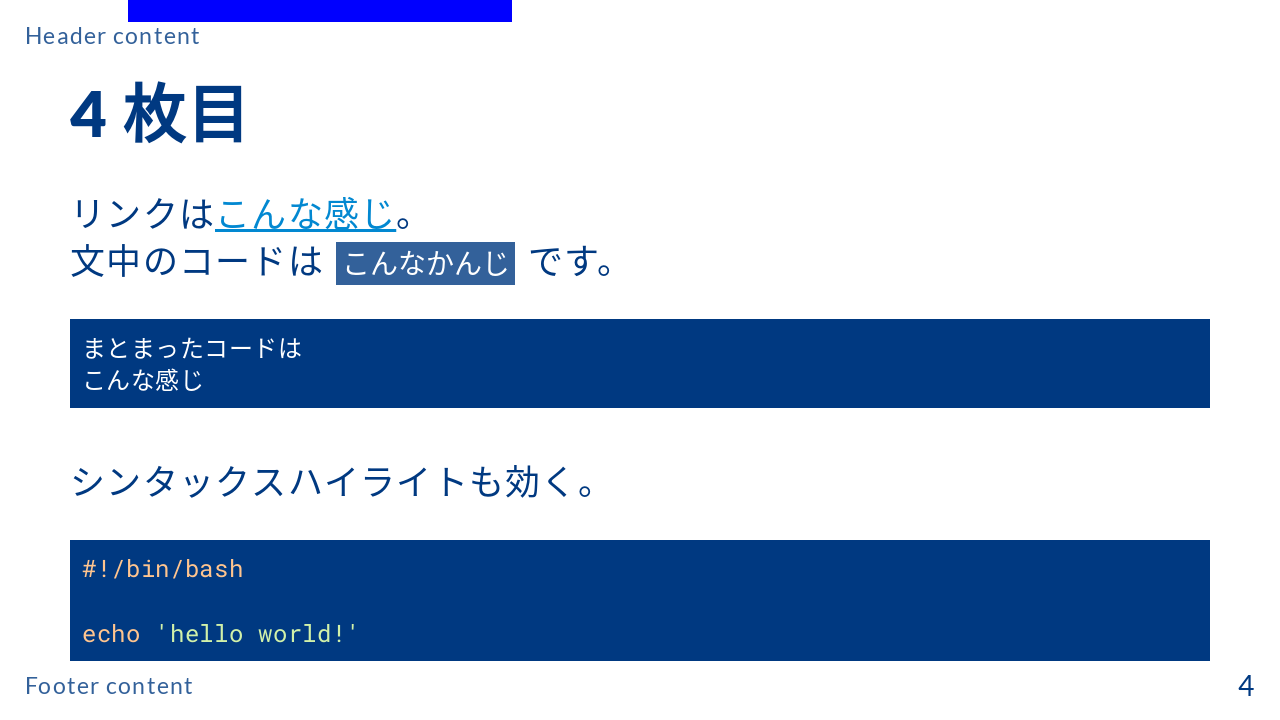
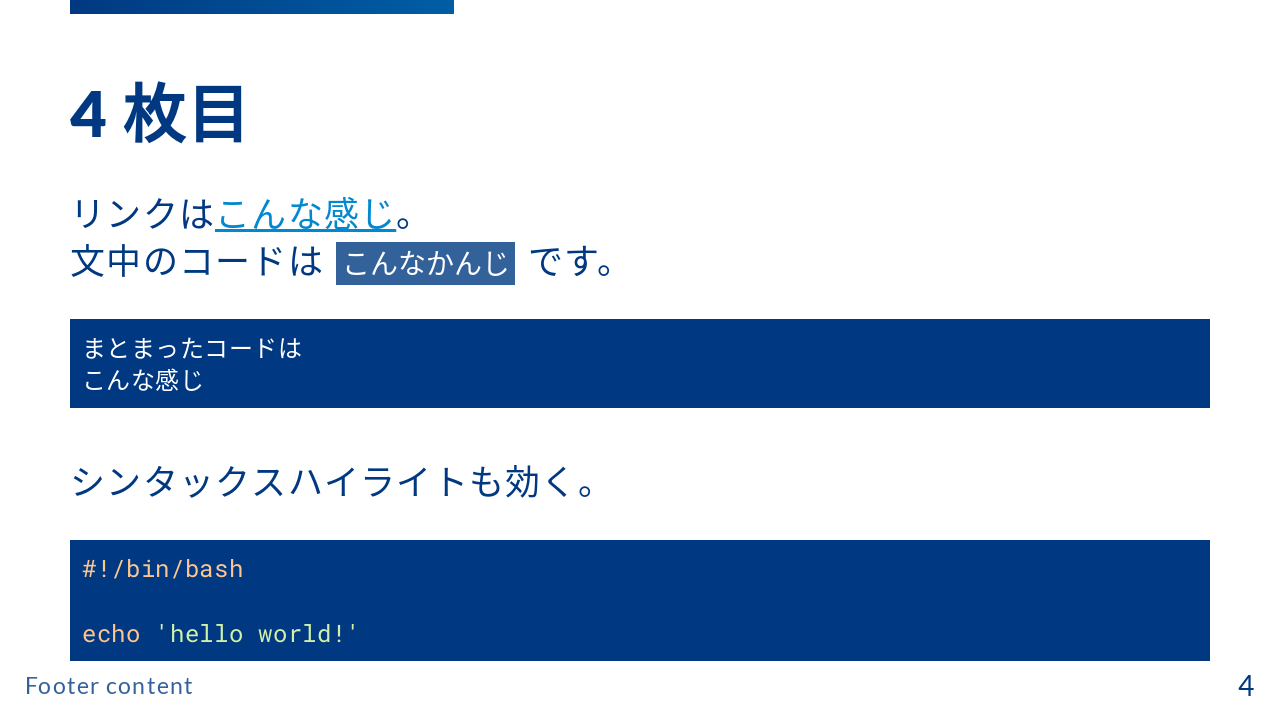
トップのワンポイントが出来たけどちょっとうるさいかも

Changed region(s): [[0.0, 0.0, 0.4062, 0.0611]]

diff --git a/marp-themes/speee.scss b/marp-themes/speee.scss
@@ -182,14 +182,13 @@ footer {
   bottom: 0;
 }
 
-section:before {
+section:not(.lead):before {
   position: absolute;
   top: 0px;
-  left: calc(10%);
   width: calc(30%);
-  height: calc(3%);
+  height: calc(2%);
   content: "";
-  background: blue;
+  background: linear-gradient(90deg, $color-dark, $color-lighter-dark);
 }
 
 section {

diff --git a/marp-themes/speee.css b/marp-themes/speee.css
@@ -161,14 +161,13 @@ footer {
   bottom: 0;
 }
 
-section:before {
+section:not(.lead):before {
   position: absolute;
   top: 0px;
-  left: 10%;
   width: 30%;
-  height: 3%;
+  height: 2%;
   content: "";
-  background: blue;
+  background: linear-gradient(90deg, #003981, #005ea5);
 }
 
 section {

diff --git a/example/example.md b/example/example.md
@@ -3,7 +3,6 @@
 marp: true
 paginate: true
 theme: speee
-header: "Header content"
 footer: "Footer content"
 ---
 
